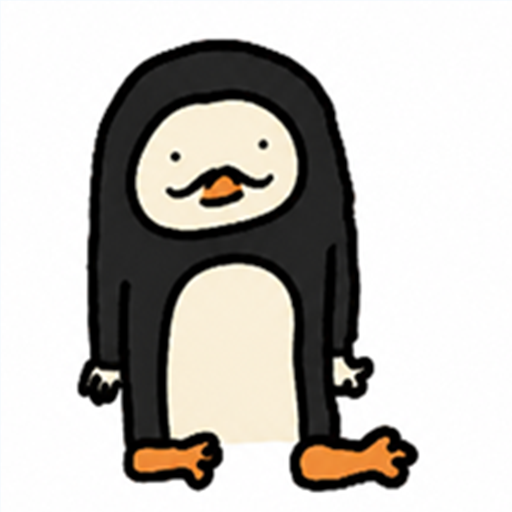
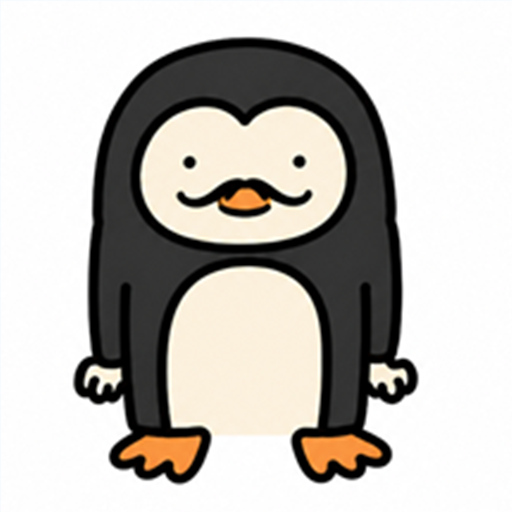
Refine Pierre from new references

Changed region(s): [[0.125, 0.0625, 0.8438, 0.9688]]

diff --git a/app/layout.tsx b/app/layout.tsx
@@ -14,12 +14,12 @@ export const metadata: Metadata = {
   title: "Pierre the Penguin — PFP Generator",
   description: "Dress up Pierre, add a caption, and download your own Pierre the Penguin PFP.",
   icons: {
-    icon: [{ url: "/favicon.png?v=1", type: "image/png", sizes: "512x512" }],
-    shortcut: "/favicon.png?v=1",
-    apple: "/favicon.png?v=1",
+    icon: [{ url: "/favicon.png?v=2", type: "image/png", sizes: "512x512" }],
+    shortcut: "/favicon.png?v=2",
+    apple: "/favicon.png?v=2",
   },
-  openGraph: { title: "Pierre the Penguin", description: "Make your Pierre.", images: [{ url: "/og.png?v=2", width: 2172, height: 724, alt: "Pierre the Penguin on a crooked polar coast" }] },
-  twitter: { card: "summary_large_image", title: "Pierre the Penguin", description: "Make your Pierre.", images: ["/og.png?v=2"] },
+  openGraph: { title: "Pierre the Penguin", description: "Make your Pierre.", images: [{ url: "/og.png?v=3", width: 2172, height: 724, alt: "Pierre the Penguin on a crooked polar coast" }] },
+  twitter: { card: "summary_large_image", title: "Pierre the Penguin", description: "Make your Pierre.", images: ["/og.png?v=3"] },
 };
 
 export default function RootLayout({ children }: Readonly<{ children: React.ReactNode }>) {

diff --git a/app/page.tsx b/app/page.tsx
@@ -9,7 +9,7 @@ const heads = [
 ];
 const things = ["1","2","4","5","6","7","8","9","10","11","12","13","14","15"];
 const colors = ["#232323", "#f6ead2", "#e8903d"];
-const baseCharacter = "/characters/base-pierre.png";
+const baseCharacter = "/characters/base-pierre-v2.png";
 
 function loadImage(src: string) {
   return new Promise<HTMLImageElement>((resolve, reject) => {

diff --git a/README.md b/README.md
@@ -27,7 +27,7 @@ npm run build
 
 ## Character asset contract
 
-- Base: `public/characters/base-pierre.png` (500x500)
+- Base: `public/characters/base-pierre-v2.png` (500x500)
 - Head layers: `public/characters/heads/` (500x500 transparent PNGs)
 - Prop layers: `public/characters/things/` (500x500 transparent PNGs)
 - Layer order: Pierre base -> head -> prop -> caption
